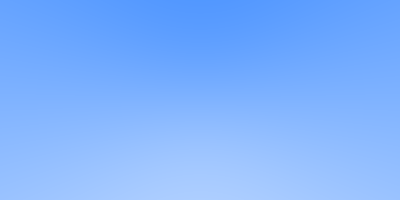
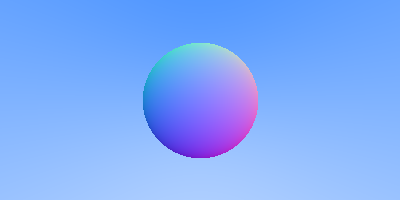
add normalized sphere

Changed region(s): [[0.36, 0.21, 0.66, 0.81]]

diff --git a/src/lib.rs b/src/lib.rs
@@ -36,8 +36,26 @@ impl Ray {
     }
 
     pub fn color(&self) -> Vec3 {
+        let t = self.hit_sphere(Vec3::new(-0.0, 0.0, -1.0), 0.5);
+        if t > 0.0 {
+            let n = (self.point_at(t) - Vec3::new(0.0, 0.0, -1.0)).norm();
+            return 0.5 * Vec3::new(n.x + 1.0, n.y + 1.0, n.z + 1.0);
+        }
         let norm = self.direction().norm();
         let t = 0.5 * norm.y + 1.0;
         (1.0 - t) * Vec3::ONE + t * Vec3::new(0.5, 0.7, 1.0)
+    }
+
+    /// We can read this as "any point p that satisfies this equation is on the sphere"
+    /// t*t*dot(B,B) + 2*t*dot(B, A-C) + dot(A-C, A-C) - R*R = 0
+    pub fn hit_sphere(&self, center: Vec3, radius: f32) -> f32 {
+        let oc: Vec3 = self.origin() - center;
+        let a = self.direction().dot(self.direction());
+        let b = 2.0 * oc.dot(self.direction());
+        let c = oc.dot(oc) - radius * radius;
+        let discriminant = b * b - 4.0 * a * c;
+        (discriminant < 0.0)
+            .then(|| -1.0)
+            .unwrap_or_else(|| (-b - discriminant.sqrt()) / (2.0 * a))
     }
 }
